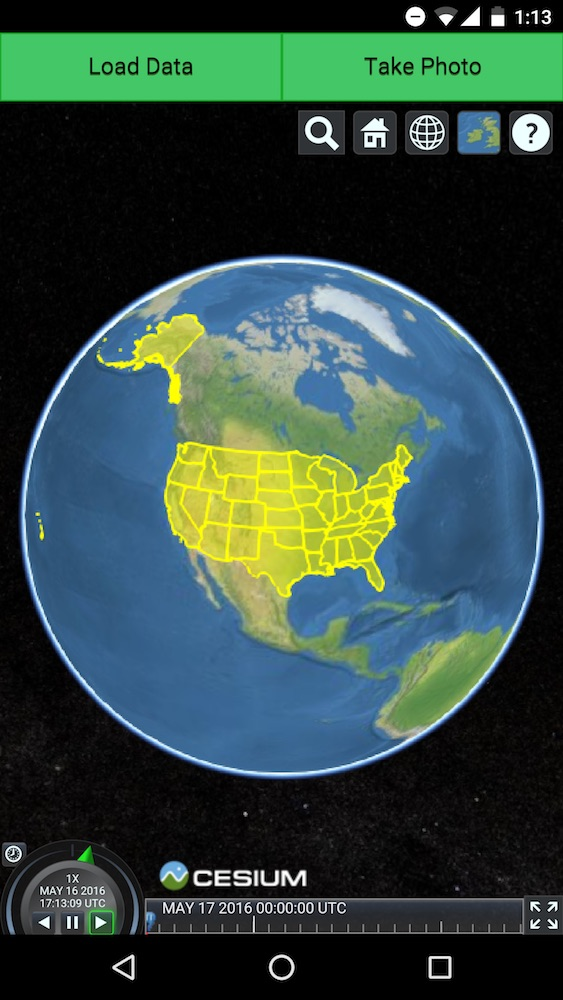
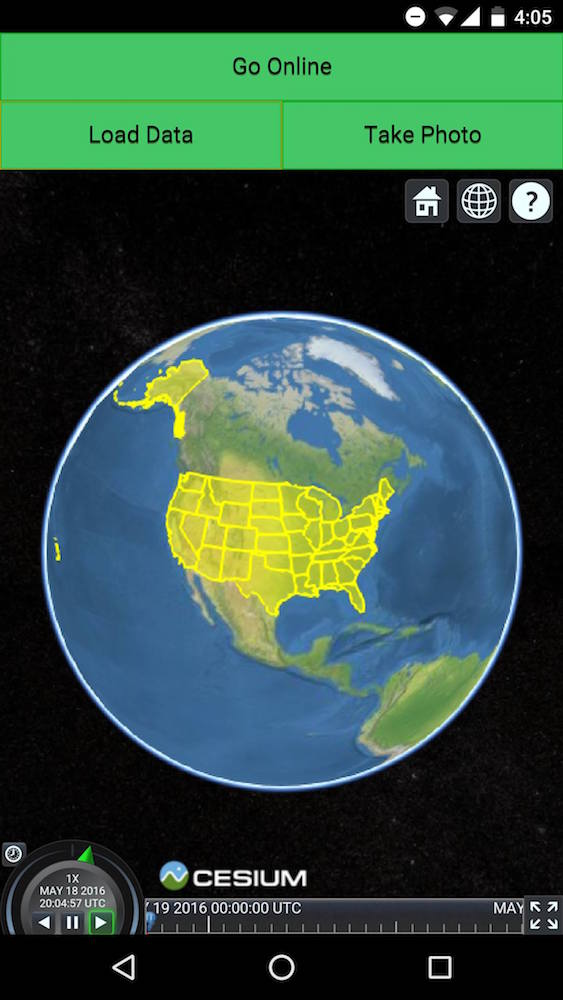
Added offline mode

diff --git a/www/index.html b/www/index.html
@@ -17,6 +17,9 @@
 </head>
 <body>
 <div >
+    <div id="button">
+        <input type="button" class="myButton" id="networkToggle" value="Go Offline" style="width: 100%" />
+    </div>
     <div id="buttons">
         <div id="buttonWrapperLeft">
             <button class="myButton left" id="id">Load Data</button>
@@ -31,6 +34,26 @@
     </div>
 </div>
 <script>
+    document.getElementById('networkToggle').onclick = function () {
+        var networkToggle = document.getElementById('networkToggle');
+        viewer.destroy();
+        if (networkToggle.value === 'Go Online') {
+            console.log('ok');
+            viewer = new Cesium.Viewer('cesiumContainer');
+            networkToggle.value = 'Go Offline';
+        } else {
+            console.log('oh');
+            viewer = new Cesium.Viewer('cesiumContainer', {
+                imageryProvider : Cesium.createTileMapServiceImageryProvider({
+                    url : Cesium.buildModuleUrl('Assets/Textures/NaturalEarthII')
+                }),
+                baseLayerPicker : false,
+                geocoder : false
+            });
+            networkToggle.value = 'Go Online';
+        }
+    };
+
     document.getElementById('id').onclick = function () {
         document.getElementById('input').click();
     };

diff --git a/www/css/index.css b/www/css/index.css
@@ -150,6 +150,6 @@ h1 {
 #cesiumWrapper {
     width: 100%;
     position: absolute;
-    top: 50px;
+    top: 100px;
     bottom: 0;
 }
